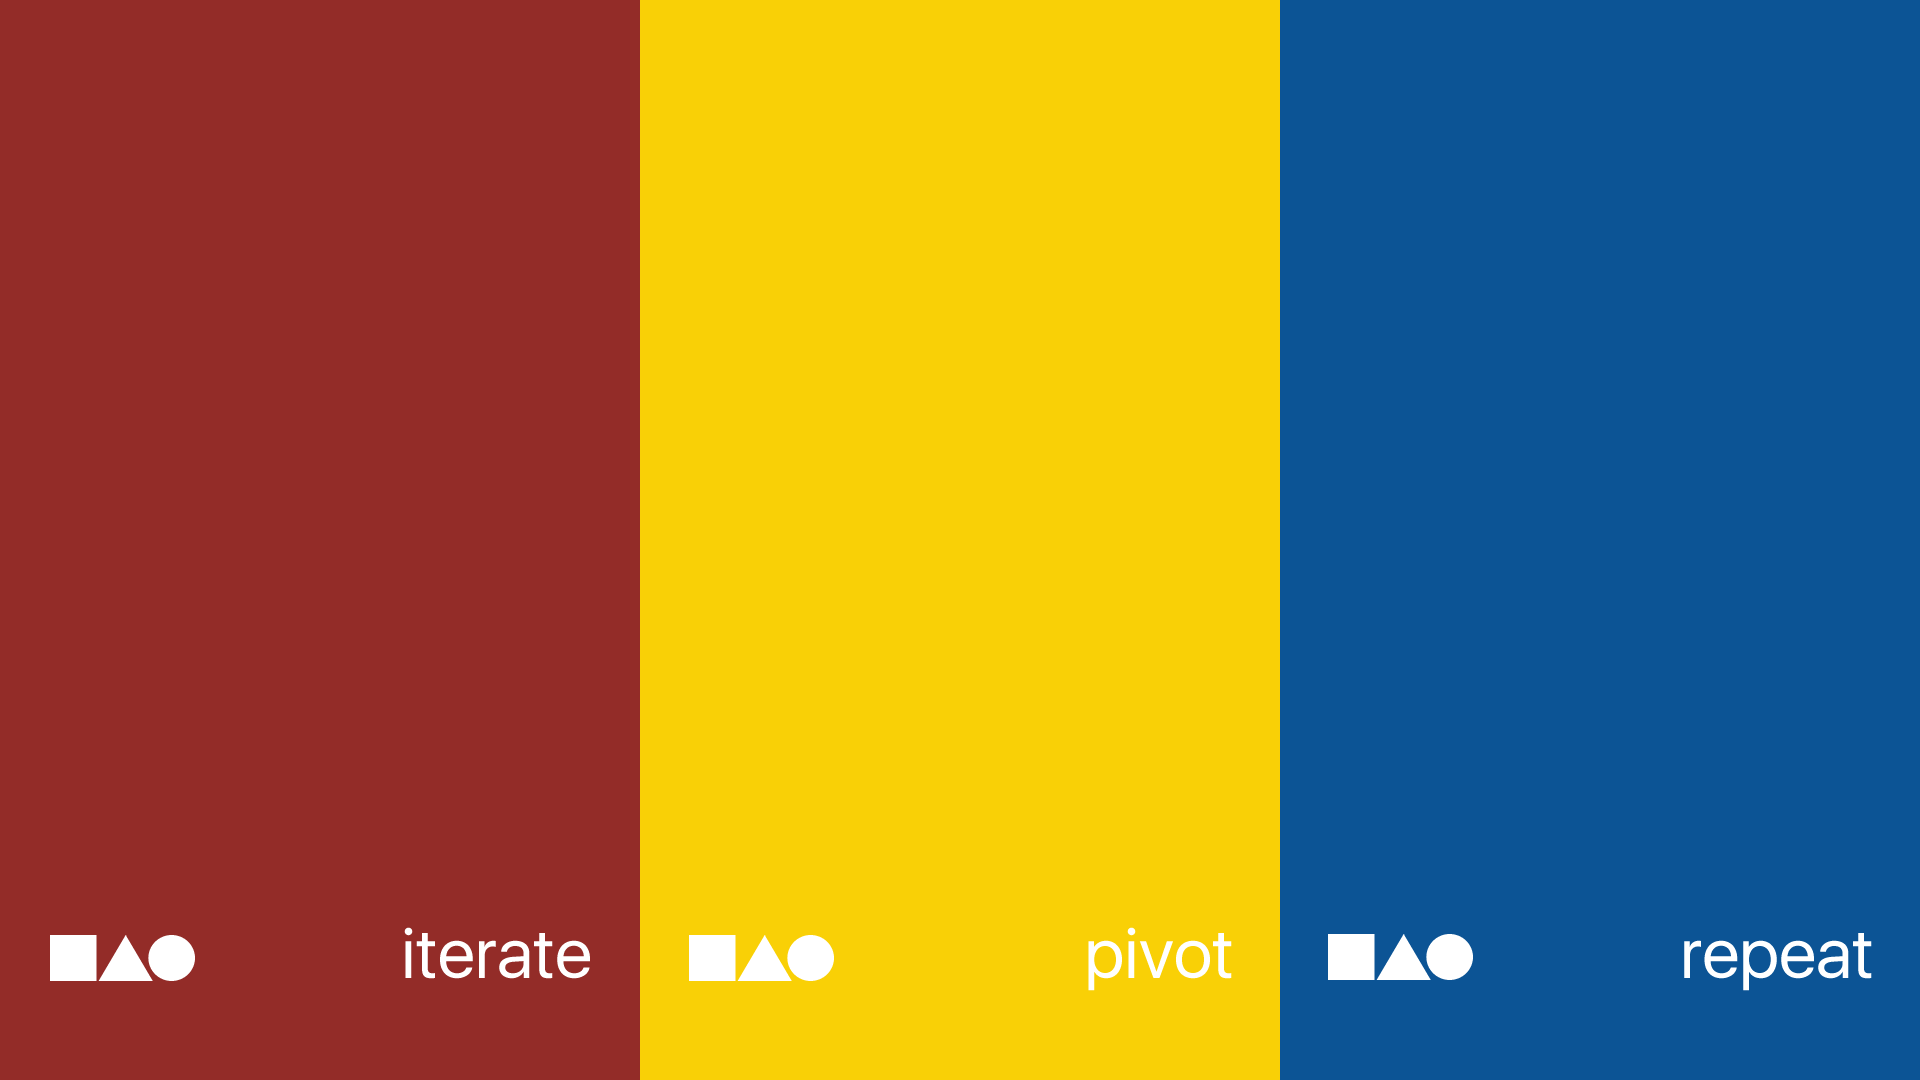
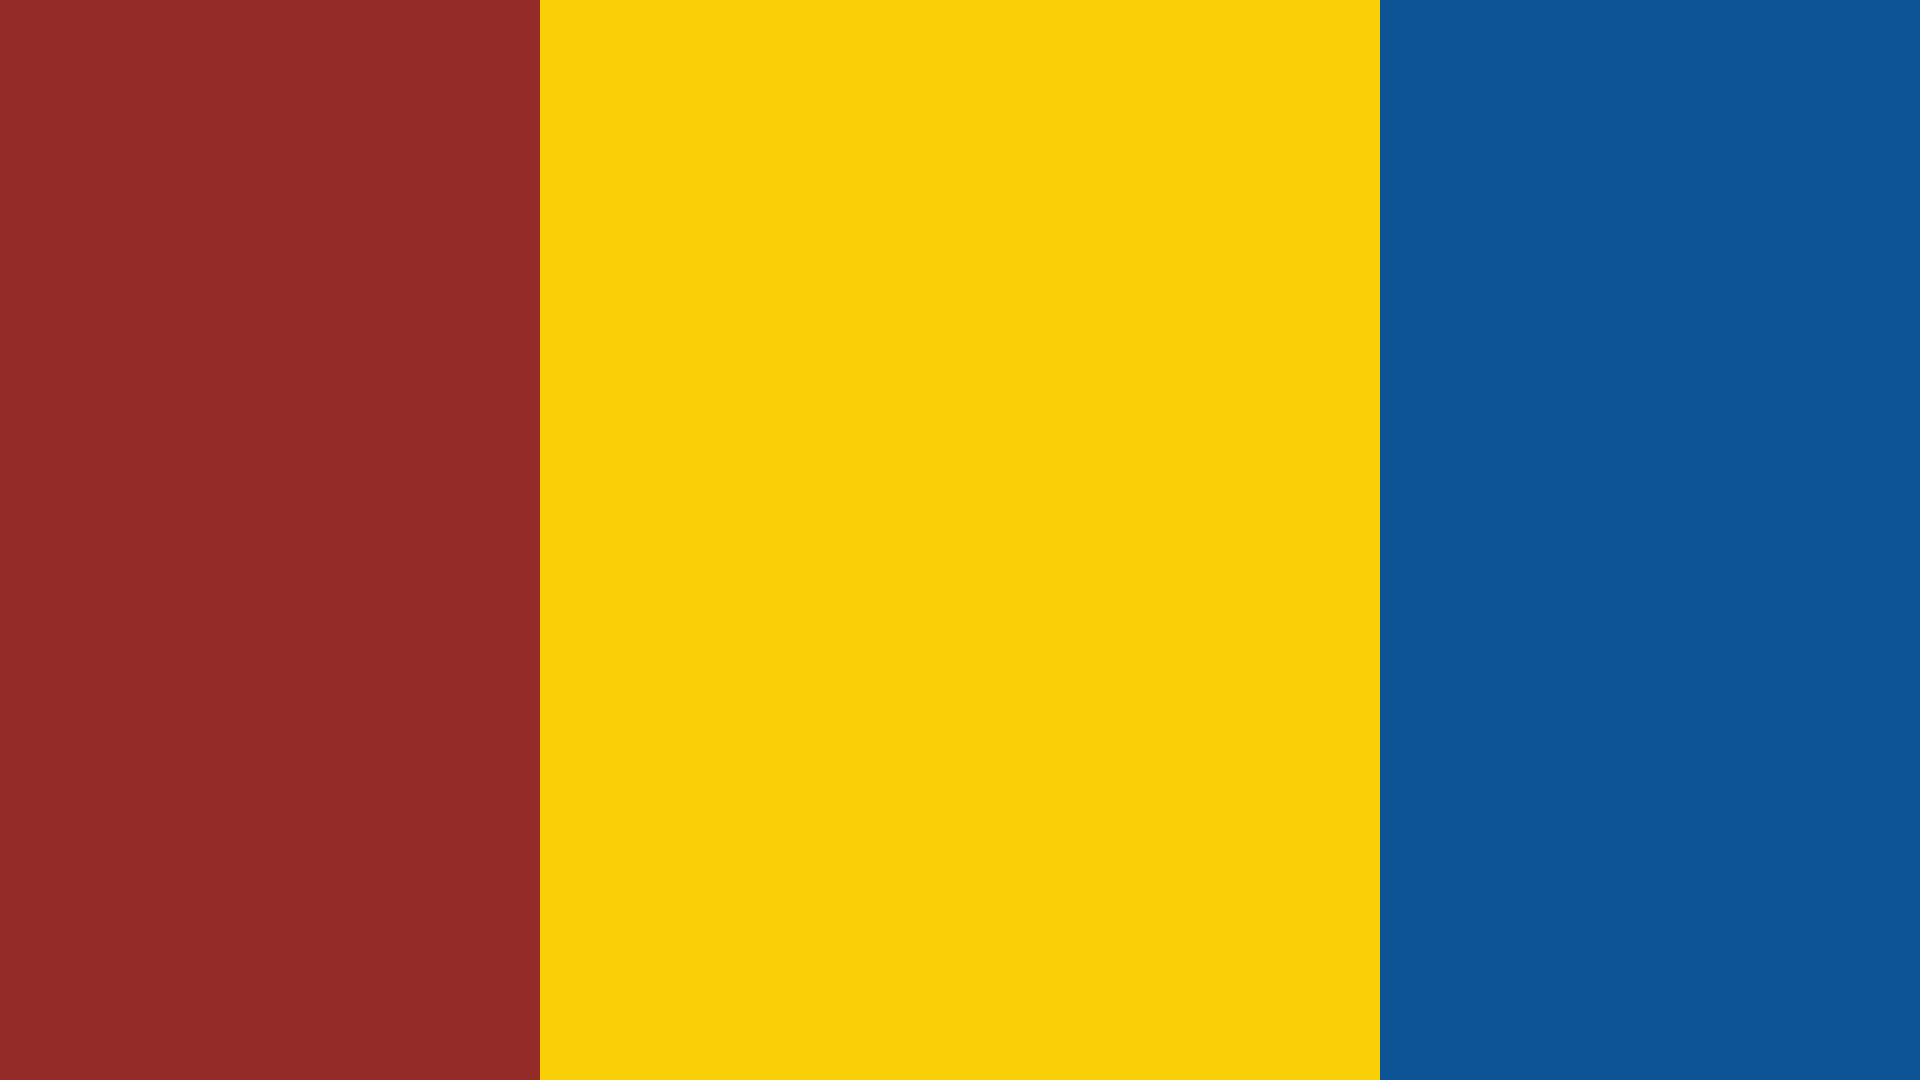
Beta 5
New home page graphic with new logo.

diff --git a/index.html b/index.html
@@ -31,7 +31,7 @@
 		<div class="reveal">
 		
 			<div class="slides">
-				<section data-state="no-title-footer" data-transition="fade-in fade-out" data-background-image="art/MPG-LOGO-20171012-Color1000pxPngRect.png" data-background-size="30vw" data-background-repeat="no-repeat">
+				<section data-state="no-title-footer" data-transition="fade-in fade-out" data-background-image="art/MPG-LOKT-20180212-HomePage.png" data-background-size="20vw" data-background-repeat="no-repeat">
 				</section>
 				<section data-transition="fade-in fade-out" data-background-image="art/AdobeStock_119361714.jpeg" data-background-size="cover" data-background-repeat="no-repeat">
 					<blockquote>Oops! Your 10-year-old just used the smartphone you gave her for <div class="highlight">safety</div> to join SnapChat.<div class="hashtags">#IdentityNotSafe #IdentityTheft #BewareOfHackers</div></blockquote>	
@@ -48,8 +48,8 @@
 				<section data-transition="fade-in fade-out" data-background="rgb(12, 84, 149)">
 						<blockquote class="clear-back">Cellular operators partner with LOKT to assuage <div class="highlight">ethical</div> concerns about kids with smartphones.<div class="hashtags">#KeepOurKidsSafe #KidsAreOurFuture</div></blockquote>
 				</section>
-				<section data-state="no-title-footer" data-transition="fade-in fade-out" data-background-image="art/MaplePalm-IDS-20171230-A-WhiteRedYellowBlueTagline1920x1080.png" data-background-size="cover" data-background-repeat="no-repeat">
-					<blockquote class="darker-back">LOKT is a unique, <div class="highlight">novel</div> digital identity solution unconstrained by financial features.<div class="hashtags">#EdentityPlatform #KnowYourCustomer</div></blockquote>	
+				<section data-transition="fade-in fade-out" data-background-image="art/MaplePalm-IDS-20171230-A-WhiteRedYellowBlueTagline1920x1080.png" data-background-size="cover" data-background-repeat="no-repeat">
+					<blockquote class="clear-back black-text">LOKT is a unique, <div class="highlight highlight-blue">novel</div> digital identity solution unconstrained by financial features.<div class="hashtags hashtags-dark">#EdentityPlatform #KnowYourCustomer</div></blockquote>	
 				</section>
 				<section data-transition="fade-in fade-out" data-background="rgb(0,0,0)">
 						<blockquote>LOKT's <div class="highlight">secret</div> sauce is PII recall with encrypted mobile, enforceable contracts, and immutable ownership on blockchain.<div class="hashtags">#LOKT-IP #Protectable</div></blockquote>
